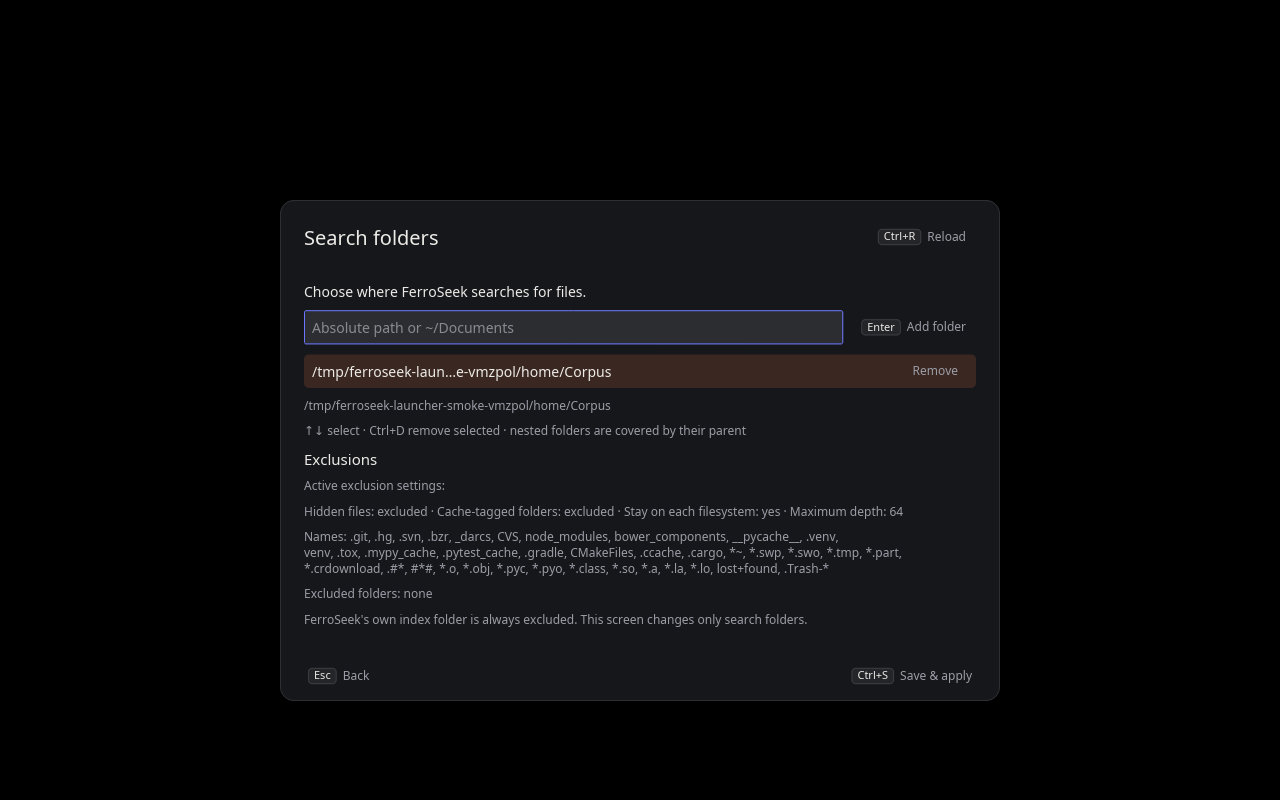
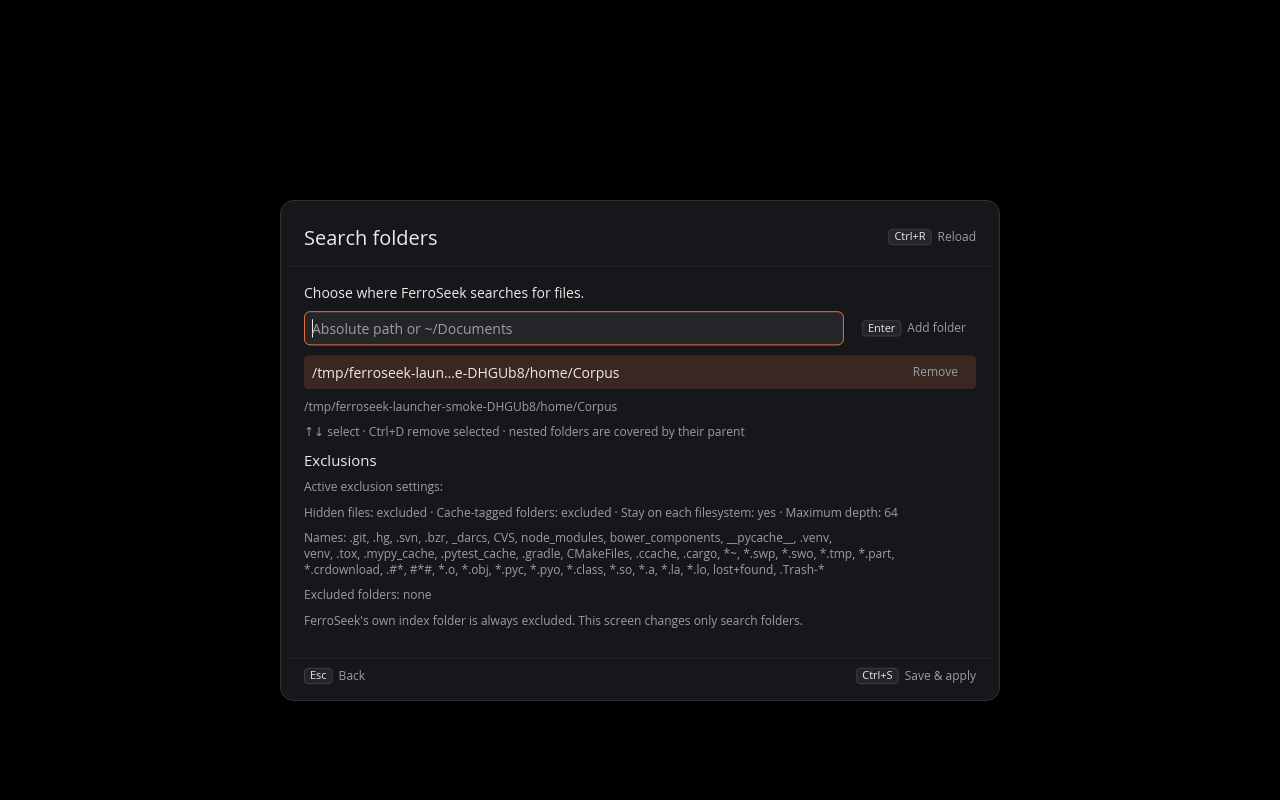
style(launcher): align gutters and theme input fields
- Search text, result icons, footer status and hints share one 24 px
  inset on both sides across search, status and folder screens.
- Folder path and action filter fields use launcher colours instead of
  iced's default blue focus ring.
- The action panel takes a palette token, a soft shadow and the same text
  inset for its title, field, rows and footer.
- A hairline separates the All/Applications/Files filter from Index status
  and Folders; the folder screen gains the shared header/footer dividers.
- Refresh the launcher screenshots.

diff --git a/crates/launcher/src/ui.rs b/crates/launcher/src/ui.rs
@@ -12,7 +12,7 @@ use iced::mouse::{self, ScrollDelta};
 use iced::widget::{
     self, Id, button, column, container, image, mouse_area, row, scrollable, space, stack, svg, text, text_input,
 };
-use iced::{Background, Border, Color, Element, Length, Subscription, Task, Theme};
+use iced::{Background, Border, Color, Element, Length, Shadow, Subscription, Task, Theme, Vector, padding};
 use iced_layershell::reexport::{Anchor, KeyboardInteractivity, Layer};
 use iced_layershell::settings::{LayerShellSettings, Settings, StartMode};
 use iced_layershell::to_layer_message;
@@ -56,6 +56,8 @@ pub(crate) mod palette {
     pub const ACCENT: Color = Color::from_rgb8(0xe0, 0x70, 0x3a);
     pub const SELECTED: Color = Color::from_rgba8(0xe0, 0x70, 0x3a, 0.18);
     pub const ERROR: Color = Color::from_rgb8(0xe8, 0x6a, 0x6a);
+    /// Floating layers above the surface, such as the action panel.
+    pub const RAISED: Color = Color::from_rgb8(0x22, 0x23, 0x29);
 }
 
 static UI_EVENTS: Mutex<Option<UnboundedReceiver<UiEvent>>> = Mutex::new(None);
@@ -968,7 +970,7 @@ fn view(s: &Launcher) -> Element<'_, Message> {
         Scope::Files => "Search indexed files…",
     };
     let input =
-        text_input(placeholder, &s.query).id(search_id()).on_input(Message::Query).size(20).padding([14, 12]).style(
+        text_input(placeholder, &s.query).id(search_id()).on_input(Message::Query).size(20).padding([14, 8]).style(
             |_, _| text_input::Style {
                 background: Background::Color(Color::TRANSPARENT),
                 border: Border::default(),
@@ -1001,7 +1003,12 @@ fn view(s: &Launcher) -> Element<'_, Message> {
         .style(status_button_style);
     let folders =
         button(text("Folders").size(11)).on_press(Message::ShowFolders).padding([6, 8]).style(status_button_style);
-    let header = container(row![input, scopes, index_status, folders].spacing(4).align_y(Vertical::Center))
+    // A hairline separates the result filter from the two screens it does not affect.
+    let separator = container(space())
+        .width(1)
+        .height(16)
+        .style(|_| container::Style { background: Some(Background::Color(palette::BORDER)), ..Default::default() });
+    let header = container(row![input, scopes, separator, index_status, folders].spacing(4).align_y(Vertical::Center))
         .padding([0, 8])
         .height(INPUT_HEIGHT)
         .align_y(Vertical::Center);
@@ -1014,13 +1021,7 @@ fn view(s: &Launcher) -> Element<'_, Message> {
     }
     body = body.push(footer(s));
 
-    let surface =
-        container(body).padding([PAD, PAD]).width(Length::Fill).height(Length::Fill).style(|_| container::Style {
-            background: Some(Background::Color(palette::SURFACE)),
-            border: Border { color: palette::BORDER, width: 1.0, radius: 14.0.into() },
-            text_color: Some(palette::TEXT),
-            ..Default::default()
-        });
+    let surface = container(body).padding(PAD).width(Length::Fill).height(Length::Fill).style(surface_style);
 
     crate::shortcuts::capture_numbered(match (&s.panel, s.selected()) {
         (Some(p), Some(item)) => stack![surface, action_panel(p, &item.target)].into(),
@@ -1037,7 +1038,7 @@ pub(crate) fn surface_style(_: &Theme) -> container::Style {
     }
 }
 
-fn divider<'a>() -> Element<'a, Message> {
+pub(crate) fn divider<'a, M: 'a>() -> Element<'a, M> {
     container(space::horizontal())
         .height(1)
         .width(Length::Fill)
@@ -1053,6 +1054,25 @@ fn index_summary(status: &SearchStatus) -> (&'static str, &'static str) {
         "paused" => ("Indexing paused", "File changes are not indexed while the service is paused."),
         "stopping" => ("File search is stopping", "Return to search and retry when the service is available."),
         _ => ("Unrecognized search status", "Update the launcher and search service together, then refresh."),
+    }
+}
+
+/// Editable fields: quiet until focused, then outlined in the accent.
+pub(crate) fn field_style(_: &Theme, status: text_input::Status) -> text_input::Style {
+    text_input::Style {
+        background: Background::Color(palette::FAINT),
+        border: Border {
+            color: match status {
+                text_input::Status::Focused { .. } => palette::ACCENT,
+                _ => palette::BORDER,
+            },
+            width: 1.0,
+            radius: 6.0.into(),
+        },
+        icon: palette::DIM,
+        placeholder: palette::DIM,
+        value: palette::TEXT,
+        selection: palette::SELECTED,
     }
 }
 
@@ -1087,7 +1107,7 @@ fn search_status_view(status: &SearchStatusPanel) -> Element<'_, Message> {
     let header =
         container(row![text("File search status").size(20), space::horizontal(), refresh].align_y(Vertical::Center))
             .height(INPUT_HEIGHT)
-            .padding([0, 16])
+            .padding(padding::left(16).right(PAD))
             .align_y(Vertical::Center);
     let mut content = column![].spacing(12).padding(16);
     match status {
@@ -1148,18 +1168,13 @@ fn search_status_view(status: &SearchStatusPanel) -> Element<'_, Message> {
         .align_y(Vertical::Center),
     )
     .height(FOOTER_HEIGHT)
-    .padding([0, 10])
+    .padding(padding::left(16).right(PAD))
     .align_y(Vertical::Center);
     container(column![header, divider(), detail, divider(), footer])
         .padding(PAD)
         .width(Length::Fill)
         .height(Length::Fill)
-        .style(|_| container::Style {
-            background: Some(Background::Color(palette::SURFACE)),
-            border: Border { color: palette::BORDER, width: 1.0, radius: 14.0.into() },
-            text_color: Some(palette::TEXT),
-            ..Default::default()
-        })
+        .style(surface_style)
         .into()
 }
 
@@ -1231,7 +1246,7 @@ fn result_row(s: &Launcher, i: usize, slot: usize) -> Element<'_, Message> {
     if s.panel.is_none() {
         content = content.push(numbered_hint(slot));
     }
-    let content = content.spacing(12).align_y(Vertical::Center).padding([0, 12]);
+    let content = content.spacing(12).align_y(Vertical::Center).padding(padding::left(13).right(16));
     let bar = container(space::vertical()).width(3).height(ROW_HEIGHT - 16.0).style(move |_| container::Style {
         background: selected.then_some(Background::Color(palette::ACCENT)),
         border: Border { radius: 2.0.into(), ..Default::default() },
@@ -1257,7 +1272,7 @@ fn footer(s: &Launcher) -> Element<'_, Message> {
         return container(text(UNCONFIRMED_OPEN).size(12).color(palette::ERROR))
             .width(Length::Fill)
             .height(FOOTER_HEIGHT)
-            .padding([0, 10])
+            .padding([0, 16])
             .align_y(Vertical::Center)
             .into();
     }
@@ -1292,12 +1307,14 @@ fn footer(s: &Launcher) -> Element<'_, Message> {
             ),
         );
     } else {
-        hints = hints.push(hint("Esc", if s.query.is_empty() { "Close" } else { "Clear search" }));
+        // Same inset as the Actions button, so the last hint keeps the right edge.
+        hints = hints
+            .push(container(hint("Esc", if s.query.is_empty() { "Close" } else { "Clear search" })).padding([3, 6]));
     }
     container(
         row![text(msg).size(12).color(color).wrapping(text::Wrapping::None), space::horizontal(), hints]
             .align_y(Vertical::Center)
-            .padding([0, 10]),
+            .padding(padding::left(16).right(10)),
     )
     .height(FOOTER_HEIGHT)
     .align_y(Vertical::Center)
@@ -1324,9 +1341,15 @@ fn numbered_hint(slot: usize) -> Element<'static, Message> {
 }
 
 fn action_panel<'a>(p: &'a Panel, target: &Target) -> Element<'a, Message> {
-    let input =
-        text_input("Search actions…", &p.query).id(actions_id()).on_input(Message::ActionQuery).size(14).padding(8);
-    let mut col = column![text(ellipsize_end(&p.title, 32)).size(12).color(palette::DIM), input].spacing(4);
+    let input = text_input("Search actions…", &p.query)
+        .id(actions_id())
+        .on_input(Message::ActionQuery)
+        .size(14)
+        .padding([8, 10])
+        .style(field_style);
+    // Title, field, rows and footer share the rows' 10 px text inset.
+    let title = container(text(ellipsize_end(&p.title, 32)).size(12).color(palette::DIM)).padding([0, 10]);
+    let mut col = column![title, input].spacing(4);
     let actions = p.filtered_actions();
     if actions.is_empty() {
         col = col.push(container(text("No matching actions").size(13).color(palette::DIM)).padding(10));
@@ -1359,8 +1382,9 @@ fn action_panel<'a>(p: &'a Panel, target: &Target) -> Element<'a, Message> {
                 .interaction(mouse::Interaction::Pointer),
         );
     }
-    let mut footer =
-        row![hint("Esc", if p.query.is_empty() { "Close actions" } else { "Clear filter" })].align_y(Vertical::Center);
+    let mut footer = row![hint("Esc", if p.query.is_empty() { "Close actions" } else { "Clear filter" })]
+        .align_y(Vertical::Center)
+        .padding([4, 10]);
     if actions.len() > VISIBLE_ROWS {
         let window = p.cursor.window(actions.len());
         footer = footer.push(space::horizontal()).push(
@@ -1369,9 +1393,11 @@ fn action_panel<'a>(p: &'a Panel, target: &Target) -> Element<'a, Message> {
     }
     col = col.push(footer);
     let panel = container(col).width(360).padding(8).style(|_| container::Style {
-        background: Some(Background::Color(Color::from_rgb8(0x22, 0x23, 0x29))),
+        background: Some(Background::Color(palette::RAISED)),
         border: Border { color: palette::BORDER, width: 1.0, radius: 10.0.into() },
         text_color: Some(palette::TEXT),
+        // Lifts the panel off the identical results behind it.
+        shadow: Shadow { color: Color::from_rgba8(0, 0, 0, 0.45), offset: Vector::new(0.0, 6.0), blur_radius: 18.0 },
         ..Default::default()
     });
     container(panel)

diff --git a/crates/launcher/src/folders.rs b/crates/launcher/src/folders.rs
@@ -357,14 +357,14 @@ impl Panel {
 
     pub fn view(&self) -> Element<'_, Event> {
         let editable = self.phase == Phase::Ready && self.pending.is_none() && self.document.is_some();
-        let mut reload = button(ui::hint("Ctrl+R", "Reload")).style(ui::status_button_style);
+        let mut reload = button(ui::hint("Ctrl+R", "Reload")).padding([6, 8]).style(ui::status_button_style);
         if !self.busy() && self.phase != Phase::Loading {
             reload = reload.on_press(Event::Reload);
         }
         let header =
             container(row![text("Search folders").size(20), space::horizontal(), reload].align_y(Vertical::Center))
                 .height(58)
-                .padding([0, 16])
+                .padding(iced::padding::left(16).right(8))
                 .align_y(Vertical::Center);
         let mut body = column![].spacing(10).padding(16);
         if self.phase == Phase::Loading {
@@ -392,7 +392,11 @@ impl Panel {
                     .color(palette::ACCENT),
                 );
             }
-            let mut input = text_input("Absolute path or ~/Documents", &self.input).id(input_id()).size(14).padding(8);
+            let mut input = text_input("Absolute path or ~/Documents", &self.input)
+                .id(input_id())
+                .size(14)
+                .padding(8)
+                .style(ui::field_style);
             let mut add = button(ui::hint("Enter", "Add folder")).style(ui::status_button_style);
             if editable {
                 input = input.on_input(Event::Input);
@@ -493,9 +497,10 @@ impl Panel {
                 .spacing(12),
             );
         }
-        let mut save = button(ui::hint("Ctrl+S", "Save & apply")).style(ui::status_button_style);
-        let mut back =
-            button(ui::hint("Esc", if self.exit_on_cancel { "Close" } else { "Back" })).style(ui::status_button_style);
+        let mut save = button(ui::hint("Ctrl+S", "Save & apply")).padding([4, 8]).style(ui::status_button_style);
+        let mut back = button(ui::hint("Esc", if self.exit_on_cancel { "Close" } else { "Back" }))
+            .padding([4, 8])
+            .style(ui::status_button_style);
         if self.phase == Phase::Ready && self.document.is_some() && self.pending.is_none() {
             save = save.on_press(Event::Save);
         }
@@ -504,9 +509,10 @@ impl Panel {
         }
         let footer = container(row![back, space::horizontal(), save].align_y(Vertical::Center))
             .height(34)
-            .padding([0, 10])
+            .padding([0, 8])
             .align_y(Vertical::Center);
-        container(column![header, scrollable(body).id(scroll_id()).height(Length::Fill), footer])
+        let body = scrollable(body).id(scroll_id()).height(Length::Fill);
+        container(column![header, ui::divider(), body, ui::divider(), footer])
             .padding(8)
             .height(Length::Fill)
             .width(Length::Fill)
